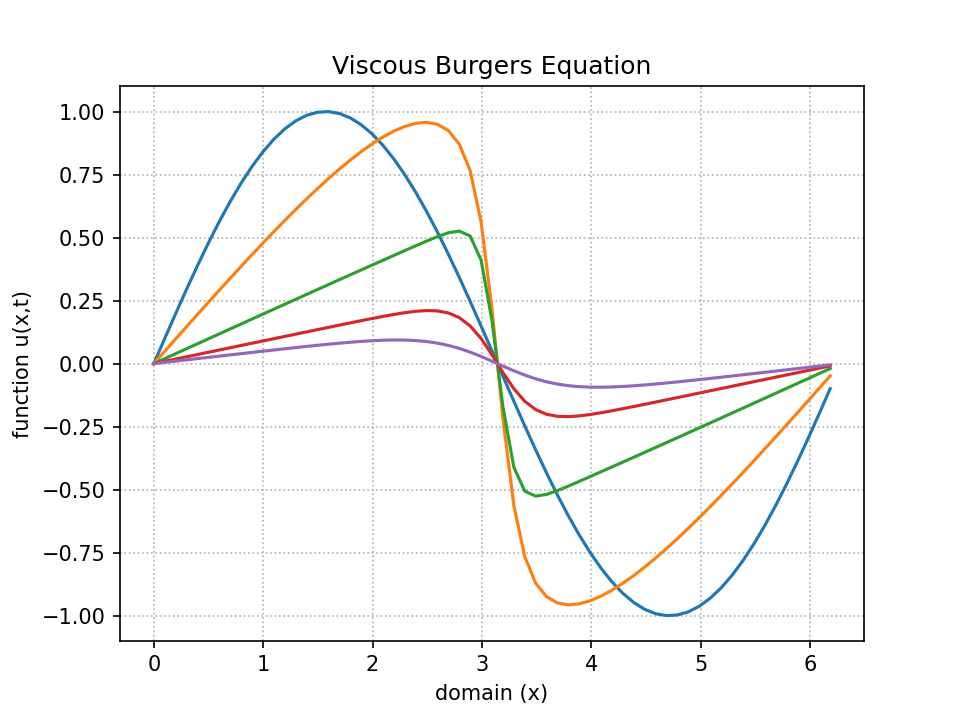
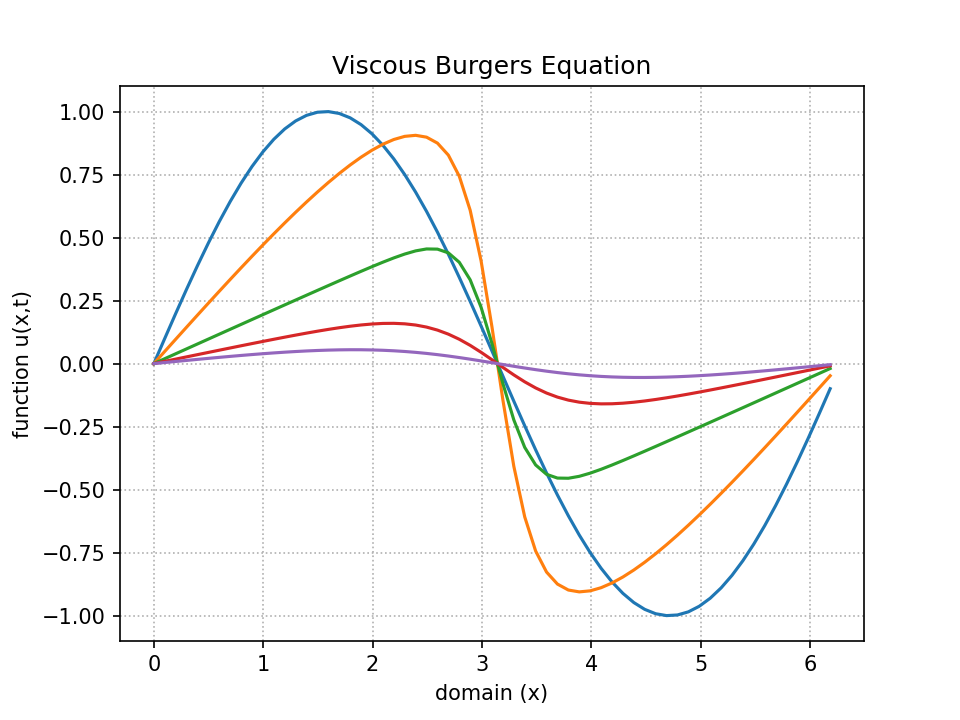
test commit

diff --git a/spectral_methods/viscous_Burgers_equation/burgers_eq.py b/spectral_methods/viscous_Burgers_equation/burgers_eq.py
@@ -26,7 +26,7 @@ b = 2.0*np.pi  # domain a to b
 dx = (b-a)/(nx-1)  # step size
 dt = 0.02  # time step
 Nt = 1000  # of time steps
-nu = 0.05  # diffusivity
+nu = 0.1  # diffusivity
 save = 50 # save data every 'this' number of time steps
 # grid points (excludes last point)
 x = np.linspace(0.0, 2.0 * np.pi - dx, nx - 1)
